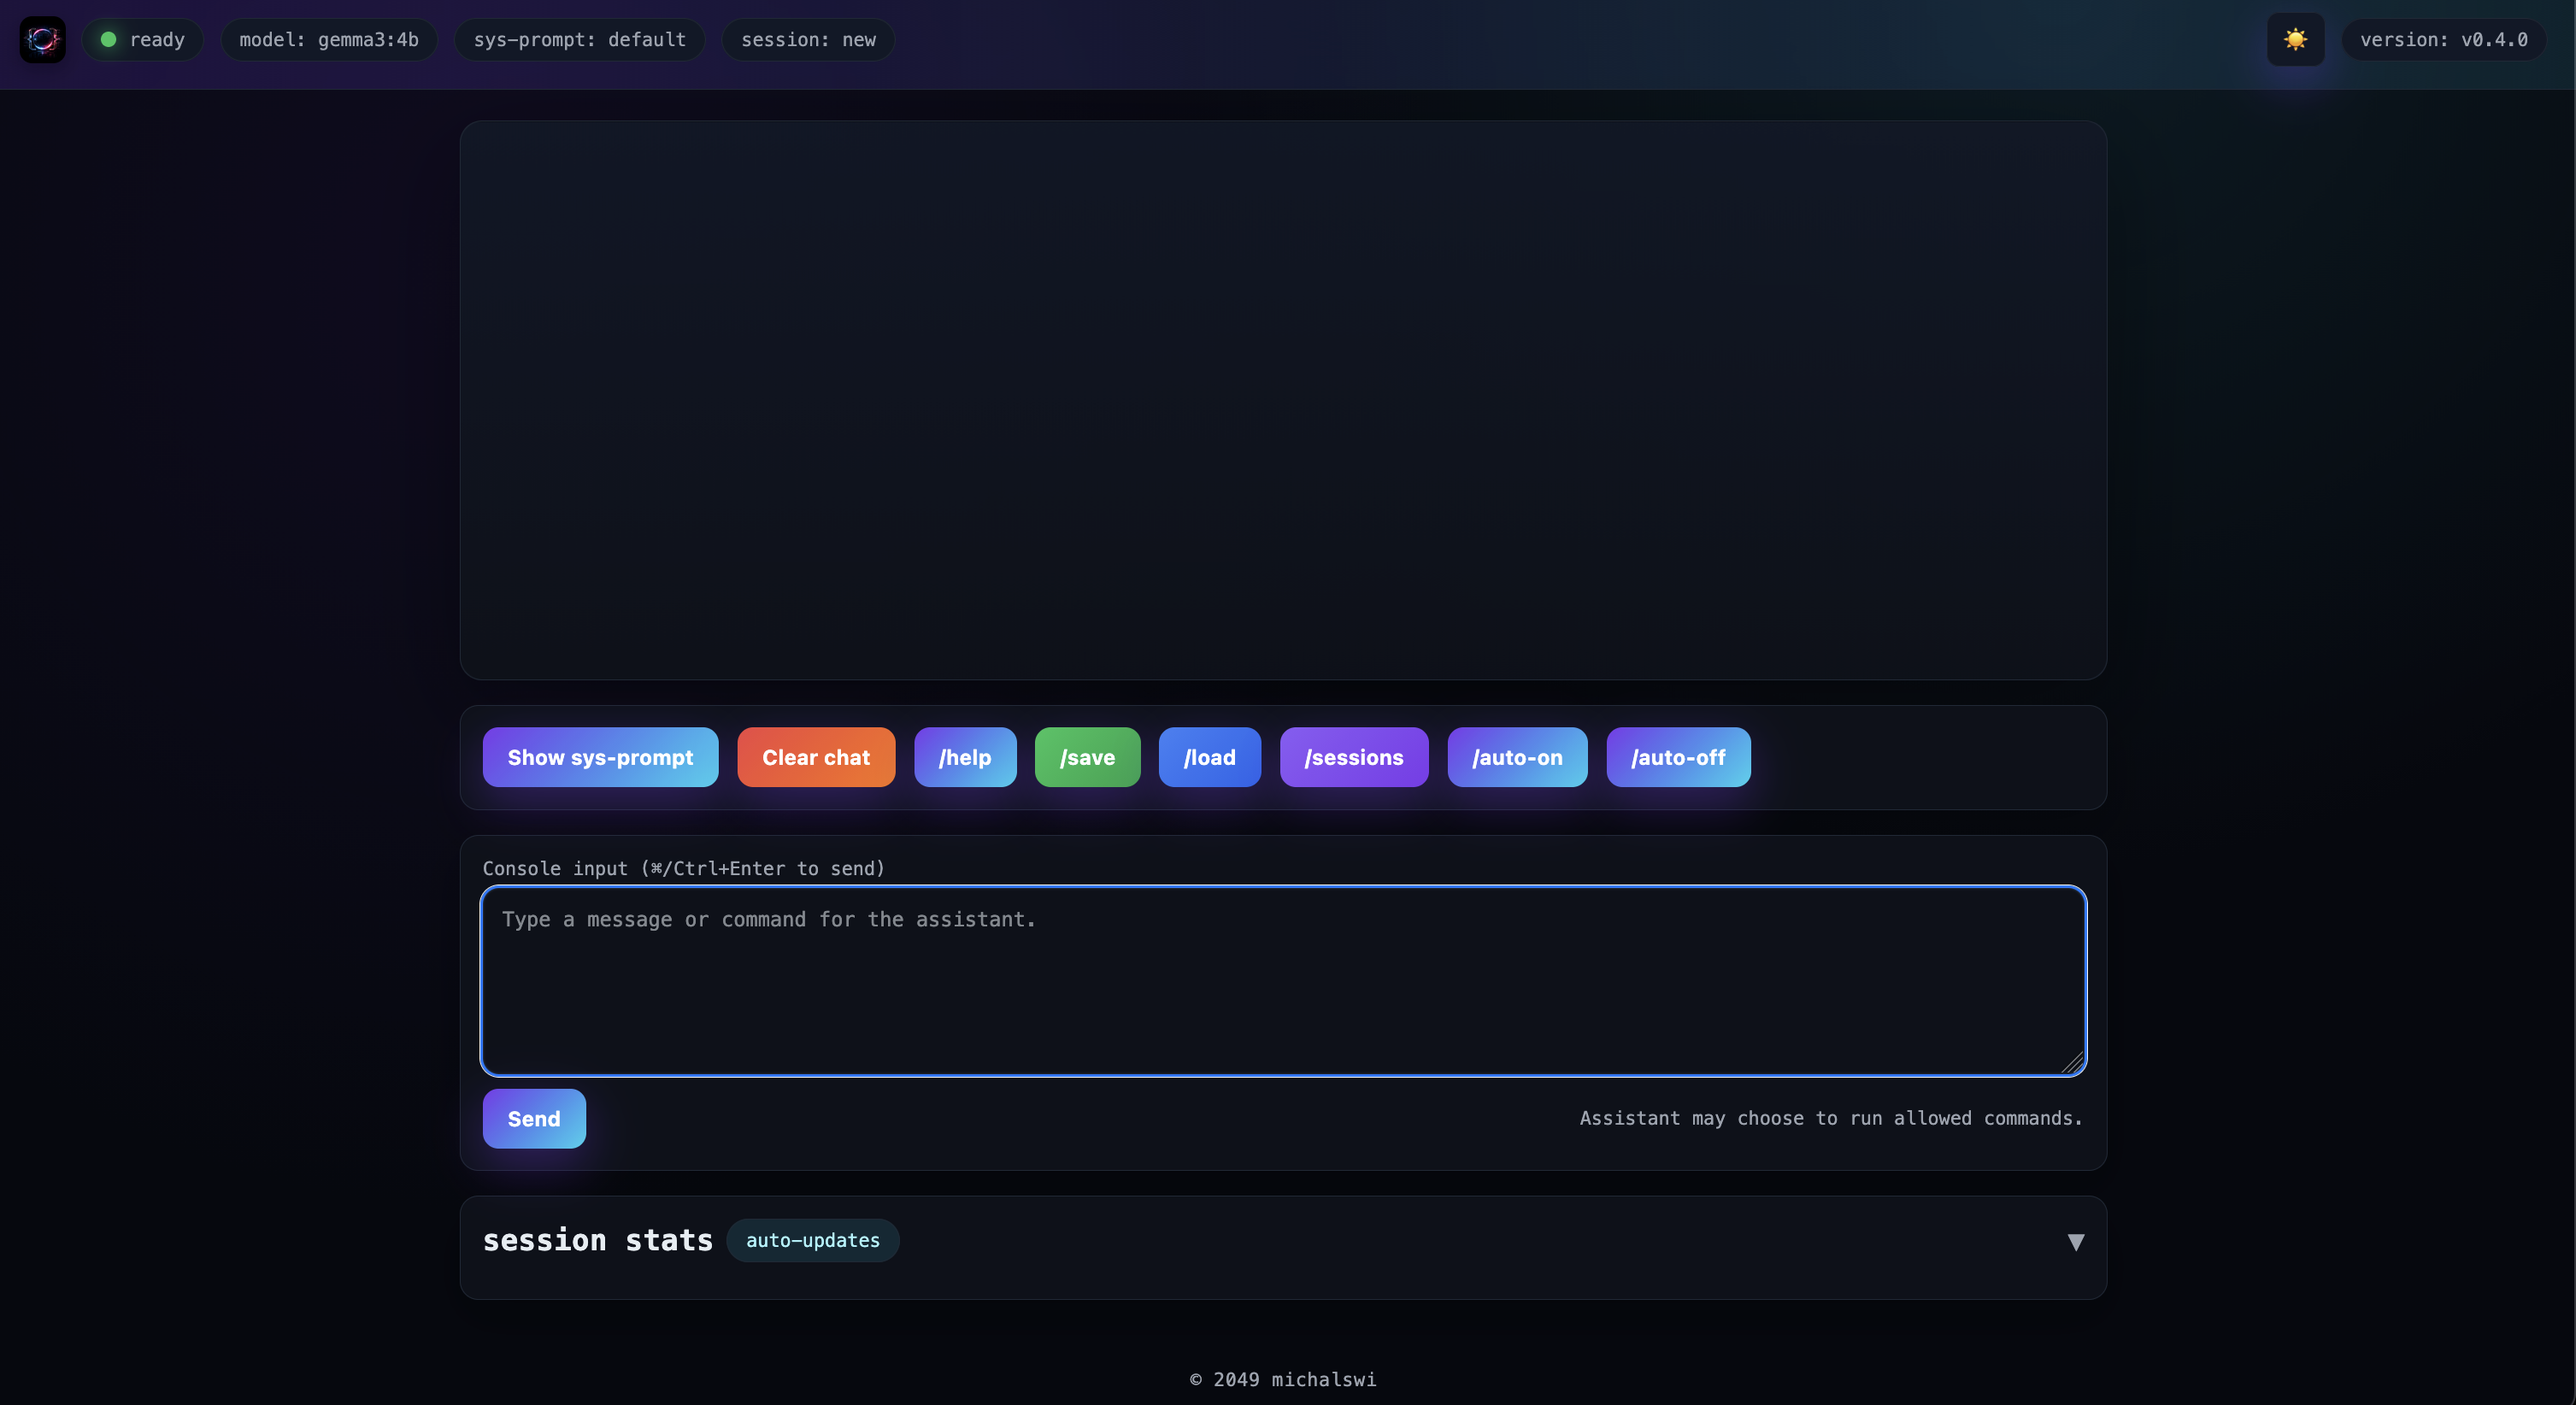
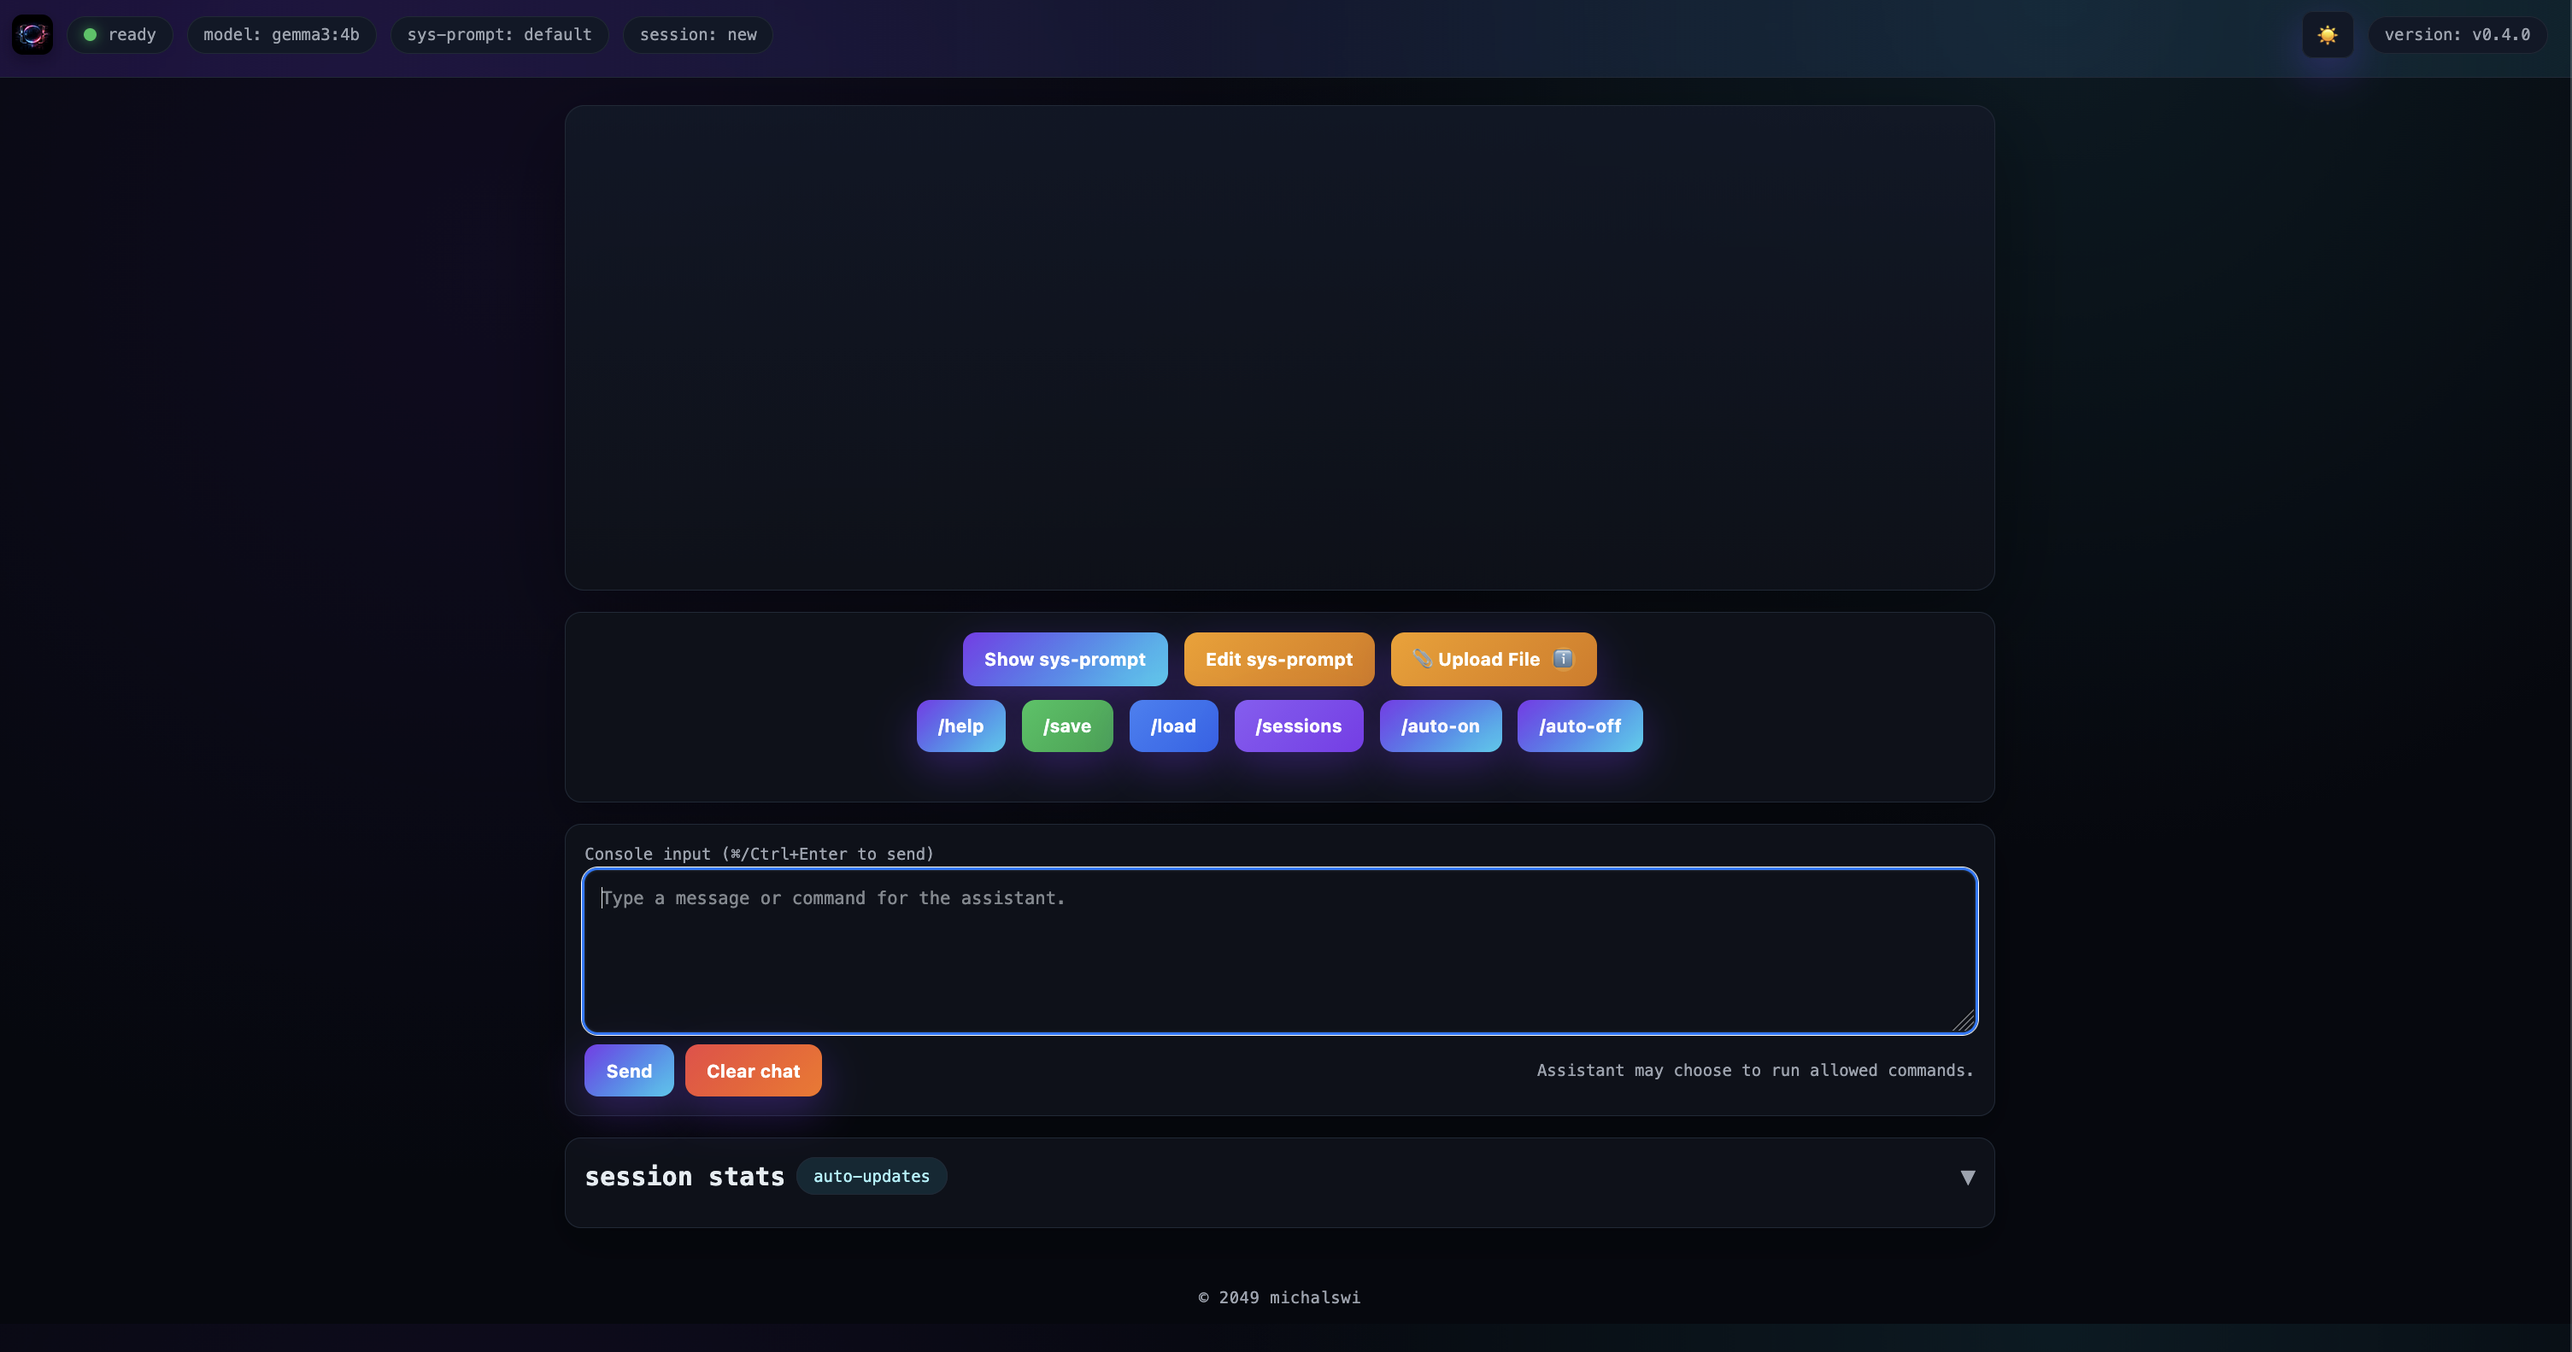
readme+ui

diff --git a/webstatic/index.html b/webstatic/index.html
@@ -128,21 +128,24 @@
     <div id="log"></div>
 
     <div class="panel" style="margin-top:16px;">
-      <div class="stack">
+      <div class="stack" style="justify-content: center;">
         <button id="showPrompt" type="button">Show sys-prompt</button>
         <button id="editPrompt" type="button" style="background: linear-gradient(135deg, #f59e0b, #d97706);">Edit sys-prompt</button>
-        <button id="clearChat" type="button" style="background: linear-gradient(135deg, #ef4444, #f97316);">Clear chat</button>
+        <button class="file-upload-btn" type="button">
+          📎 Upload File
+          <span class="info-icon" id="fileUploadInfo" title="Click for file upload info">ℹ</span>
+          <input type="file" id="fileUpload" accept="*/*" />
+        </button>
+      </div>
+      <div class="stack" style="justify-content: center; margin-top: 10px;">
         <button id="showHelp" type="button">/help</button>
         <button id="saveSession" type="button" style="background: linear-gradient(135deg, #22c55e, #16a34a);">/save</button>
         <button id="loadSession" type="button" style="background: linear-gradient(135deg, #3b82f6, #2563eb);">/load</button>
         <button id="listSessions" type="button" style="background: linear-gradient(135deg, #8b5cf6, #7c3aed);">/sessions</button>
         <button id="autoOn" type="button">/auto-on</button>
         <button id="autoOff" type="button">/auto-off</button>
-        <button class="file-upload-btn" type="button">
-          📎 Upload File
-          <span class="info-icon" id="fileUploadInfo" title="Click for file upload info">ℹ</span>
-          <input type="file" id="fileUpload" accept="*/*" />
-        </button>
+      </div>
+      <div style="text-align: center; margin-top: 4px;">
         <span id="fileName" class="file-name"></span>
       </div>
     </div>
@@ -153,6 +156,7 @@
       <div class="row" style="margin-top:8px; justify-content: space-between;">
         <div class="row" style="gap:8px;">
           <button id="send">Send</button>
+          <button id="clearChat" type="button" style="background: linear-gradient(135deg, #ef4444, #f97316);">Clear chat</button>
           <div id="sendSpinner" class="spinner" aria-hidden="true"></div>
           <span id="quickResponseTime" style="font-size:12px; color:var(--accent-2); font-weight:600; display:none;">⏱ 0.000s</span>
         </div>

diff --git a/README.md b/README.md
@@ -15,14 +15,16 @@
 
 </div>
 
-**owrap** is local golang based CLI (+ webUI) wrapper around Ollama that:
+**owrap** is a local Go-based CLI and web UI wrapper around Ollama that:
 
-- sends your text to the Ollama HTTP chat endpoint with the configured model
-- when asked, runs [allowlisted](./comm.go#L3) shell commands locally, captures stdout/stderr, and feeds that output back as a chat message so the model can continue
-- maintains a session log (user/assistant messages, stats) in memory; you can save it to tmp with /save and later on /load
-- provides slash commands for help, stats, cached blocks, exec file, etc.
-- app works either in terminal or in webui
-- all interaction stays on your machine
+- Works in both terminal and web UI modes
+- Keeps all interactions local on your machine (no external API calls)
+- Sends your messages to the Ollama HTTP chat endpoint with your configured model
+- Executes [allowlisted](./comm.go#L3) shell commands when explicitly requested by the model, captures stdout/stderr, and feeds the output back to continue the conversation
+- Maintains session logs (user/assistant messages, statistics) in memory with `/save` and `/load` support for `/tmp/sessions`
+- Provides comprehensive slash commands for help, stats, cached blocks, file execution, session management, and more
+- Supports **file uploads** in web UI - upload text/code files for one-time analysis with custom prompts
+- Enables **dynamic system prompt editing** - switch between predefined prompts or create custom ones on-the-fly (terminal: `/editsysprompt`, web UI: "Edit sys-prompt" button)
 
 
 ## Help
@@ -43,28 +45,30 @@ Type '/h' for help/shortcuts.
 ------------------------------------------------------------
 You: /h
 Available commands:
-  /h            Show this help
-  /q            Exit the program
-  /dir          Show current working directory
-  /m            Show Ollama LLM model in use
-  /up           Show app uptime
-  /s, /stats    Show session stats (counts, chars, last command)
-  /last         Show last prompt + model answer
-  /sysprompt    Show current system prompt
-  /save [NAME]  Save current session to /tmp/sessions (auto-named if NAME omitted)
-  /load NAME    Load a saved session by name
-  /sessions     List all saved sessions in /tmp/sessions
-  /p [DELIM]    Paste multi-line input; finish with a line containing only DELIM (default EOF)
-  /cache        List cached (not sent) blocks
-  /use N        Send cached block #N (1-based) with optional question
-  /auto-on      Enable automatic analysis after commands
-  /auto-off     [default] Disable automatic analysis after commands
-  /execfile P   Execute each non-empty line in file P (no analysis)
+  /h             Show this help
+  /q             Exit the program
+  /dir           Show current working directory
+  /m             Show Ollama LLM model in use
+  /up            Show app uptime
+  /s, /stats     Show session stats (counts, chars, last command)
+  /last          Show last prompt + model answer
+  /sysprompt     Show current system prompt
+  /editsysprompt Edit system prompt (select from files or write custom)
+  /save [NAME]   Save current session to /tmp/sessions (auto-named if NAME omitted)
+  /load NAME     Load a saved session by name
+  /sessions      List all saved sessions in /tmp/sessions
+  /p [DELIM]     Paste multi-line input; finish with a line containing only DELIM (default EOF)
+  /cache         List cached (not sent) blocks
+  /use N         Send cached block #N (1-based) with optional question
+  /auto-on       Enable automatic analysis after commands
+  /auto-off      [default] Disable automatic analysis after commands
+  /execfile P    Execute each non-empty line in file P (no analysis)
 Model-run allowed commands:
   [ansible, arp, bash, cat, chmod, curl, date, dig, echo, ffuf, find, for, grep, head, httpx, ip, ls, nc, netcat, nmap, nslookup, ping, pwd, sh, sort, subfinder, tail, telnet, terraform, traceroute, tree, uniq, wc, wget, while, whois]
 ------------------------------------------------------------
 
-> [webui version] described below 
+
+> [webui version] (described below)
 $ ./owrap -h
 Usage of ./owrap:
   -web
@@ -86,10 +90,13 @@ gemma3:4b             a2af6cc3eb7f    3.3 GB    5 days ago
 llama3.2:latest       a80c4f17acd5    2.0 GB    2 months ago
 ```
 
-- default **URL** to connect to Ollama is `http://localhost:11434/api/chat`. It might be changed using env var `OLLAMA_URL`  
-- default **local LLM model** is `gemma3:4b`. It might be changed using env var `OLLAMA_MODEL`
-- default **system prompt** is defined [here](./vars.go). By default the built-in prompt is used; set env var `SYSTEM_PROMPT` to a prompt file path (e.g., [prompts/recon.txt](./prompts/recon.txt)) to load it instead (falls back to default if the file cannot be read)
-- default **port** for webUI is `8080`. It might be changed using env var `WEB_BIND`
+- **URL** to connect to Ollama: `http://localhost:11434/api/chat` (override with env var `OLLAMA_URL`)
+- **LLM model**: `gemma3:4b` (override with env var `OLLAMA_MODEL`)
+- **System prompt**: Defined [here](./vars.go) by default. You can:
+  - Set `SYSTEM_PROMPT` env var to a prompt file path (e.g., `./prompts/recon.txt`) to load at startup
+  - Use `/editsysprompt` (terminal) or "Edit sys-prompt" button (web UI) to change it at runtime
+  - Falls back to default if the file cannot be read
+- **Web UI port**: `:8080` (override with env var `WEB_BIND`)
 
 ### > run app [terminal version]
 
@@ -133,12 +140,6 @@ You:
 ```
 $ ./owrap -web
 2025/12/28 16:19:44 web UI listening on :8080 (model=gemma3:4b, prompt=default, chars=481)
-
-OR
-
-$ SYSTEM_PROMPT=./prompts/(...).txt ./owrap -web
-(...)
-
 
 $ open in web browser http://localhost:8080/
 ```
